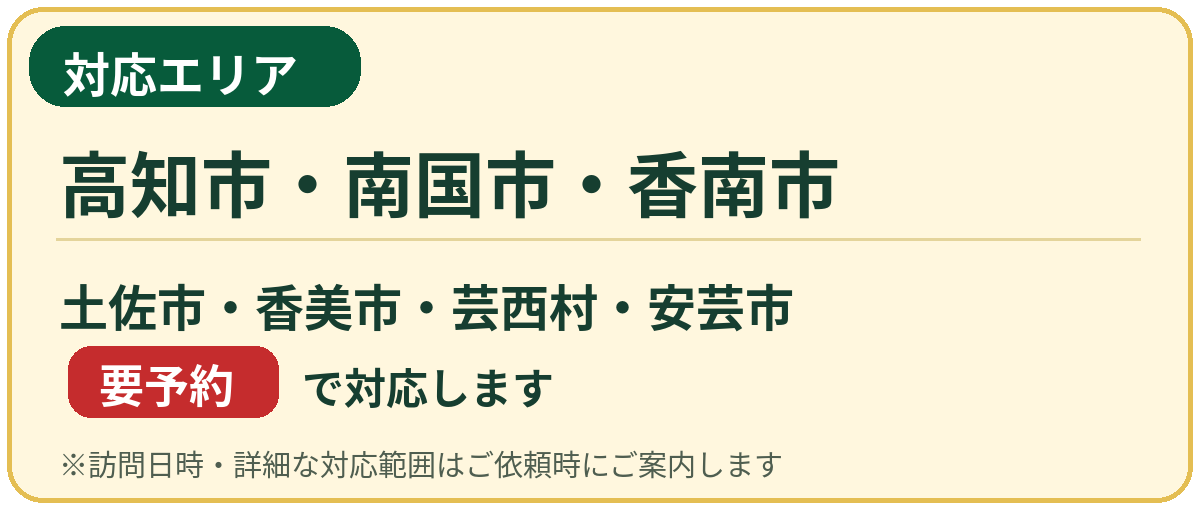
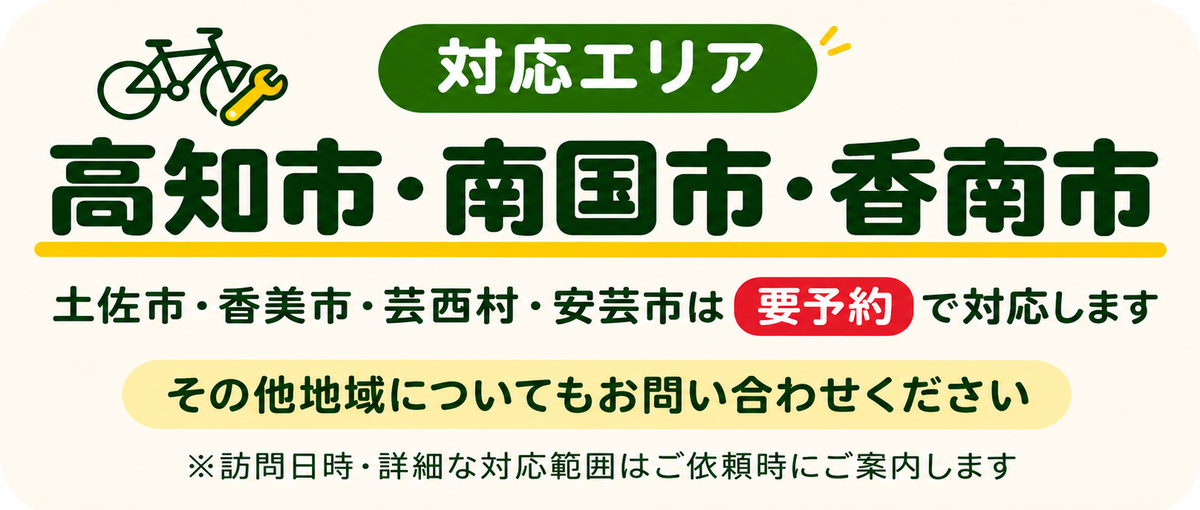
Add files via upload

diff --git a/visit-repair.html b/visit-repair.html
@@ -1061,8 +1061,7 @@ body{background:#fbfaf6}
     <section class="ref-services ref-services-banner" id="ref-services" aria-label="こんな時にご利用ください"><img class="ref-services-banner-img" src="visit-assets/mobile_service_banner_adopted.png" alt="こんな時にご利用ください：パンクしてしまった、ブレーキの効きが悪い、チェーンの調子が悪い、その他修理" width="1267" height="750" loading="lazy" decoding="async"><p class="ref-service-hint">お持ち込みが難しい自転車も、お気軽にご相談ください</p></section>
     <details class="ref-expand"><summary><svg class="" viewBox="0 0 24 24" fill="none" stroke="currentColor" stroke-width="1.9" stroke-linecap="round" stroke-linejoin="round" aria-hidden="true"><path d="m8 4 8 8-8 8"/></svg><span>対応内容・ご利用の流れを見る</span></summary><div class="ref-expand-content"><h3>対応内容</h3><p>パンクや調整など、その場で対応できる修理は現地で作業します。難しい場合は工房に引き取り、修理して後日お届けします。</p><h3>ご利用の流れ</h3><ol><li><span class="ref-step-no">1</span><svg class="" viewBox="0 0 24 24" fill="none" stroke="currentColor" stroke-width="1.9" stroke-linecap="round" stroke-linejoin="round" aria-hidden="true"><path d="M21 16.7v3a2 2 0 0 1-2.2 2 19.6 19.6 0 0 1-8.6-3.1 19.6 19.6 0 0 1-6-6A19.6 19.6 0 0 1 1.1 4a2 2 0 0 1 2-2h3a2 2 0 0 1 2 1.7l.6 2.5a2 2 0 0 1-.5 2.1L7 9.6a15.2 15.2 0 0 0 6.4 6.4l1.3-1.2a2 2 0 0 1 2.1-.5l2.5.6a2 2 0 0 1 1.7 2.2Z"/></svg><div><strong>ご相談・受付</strong><p>受付開始後、症状や訪問場所をお伺いします。</p></div></li><li><span class="ref-step-no">2</span><svg class="" viewBox="0 0 24 24" fill="none" stroke="currentColor" stroke-width="1.9" stroke-linecap="round" stroke-linejoin="round" aria-hidden="true"><rect x="3" y="5" width="18" height="16" rx="2"/><path d="M7 3v4m10-4v4M3 10h18m-14 4h3m4 0h3"/></svg><div><strong>訪問日時の確認</strong><p>日時・場所・作業内容と料金をご案内します。</p></div></li><li><span class="ref-step-no">3</span><svg class="" viewBox="0 0 24 24" fill="none" stroke="currentColor" stroke-width="1.9" stroke-linecap="round" stroke-linejoin="round" aria-hidden="true"><path d="M20.5 7a5.4 5.4 0 0 1-7.1 7.1L6.3 21a2.3 2.3 0 0 1-3.3-3.3l7.1-7.1A5.4 5.4 0 0 1 17 3.5L13 7.5l3.5 3.5Z"/></svg><div><strong>出張修理</strong><p>ご指定の場所へ伺い修理します。必要に応じて引き取りにも対応します。</p></div></li><li><span class="ref-step-no">4</span><svg class="" viewBox="0 0 24 24" fill="none" stroke="currentColor" stroke-width="1.9" stroke-linecap="round" stroke-linejoin="round" aria-hidden="true"><rect x="2" y="5" width="20" height="14" rx="2"/><path d="M2 10h20m-16 5h6"/></svg><div><strong>修理・お支払い</strong><p>状態と作業内容をご確認いただき、お支払いとなります。</p></div></li></ol></div></details>
     <div class="ref-fee-graphic-cards" id="ref-fees" aria-label="対応エリアと出張料金">
-    <img src="visit-assets/mobile_area_card.png" alt="対応エリア：高知市・南国市・香南市。土佐市・香美市・芸西村・安芸市は要予約で対応します。訪問日時や詳細な対応範囲はご依頼時にご案内します。" width="1200" height="510" loading="lazy" decoding="async">
-    <p class="ref-area-extra-note">その他の市町村についても、お気軽にお問い合わせください</p>
+    <img src="visit-assets/mobile_area_card.png" alt="対応エリア：高知市・南国市・香南市。土佐市・香美市・芸西村・安芸市は要予約で対応します。その他地域についてもお問い合わせください。訪問日時・詳細な対応範囲はご依頼時にご案内します。" width="1200" height="510" loading="lazy" decoding="async">
     <img src="visit-assets/mobile_fee_card.png" alt="出張料金：500円から。修理工賃・部品代とは別にかかります。訪問先や作業内容によって料金が異なり、作業前にご案内します。" width="1200" height="510" loading="lazy" decoding="async">
   </div>
     <section class="ref-faq" id="ref-questions"><h2><svg class="" viewBox="0 0 24 24" fill="none" stroke="currentColor" stroke-width="1.9" stroke-linecap="round" stroke-linejoin="round" aria-hidden="true"><circle cx="12" cy="12" r="10"/><path d="M9 9a3 3 0 1 1 4.4 2.7c-1 .6-1.4 1.1-1.4 2.7M12 17.3h.01"/></svg>よくあるご質問</h2><div class="ref-faq-items"><details><summary>どんな修理ができますか？</summary><p>パンク修理・ブレーキ調整・チェーン調整などに対応します。現地での修理が難しい場合は、お預かりして工房で修理します。</p></details><details><summary>事前予約は必要ですか？</summary><p>通常の出張修理は事前にご相談ください。急な故障も可能な範囲で対応します。店舗へのご来店は予約不要です。</p></details><details><summary>出張料金はいくらですか？</summary><p>500円からです。修理工賃・部品代は別途かかり、訪問先や作業内容によって異なります。作業前にご案内します。</p></details></div></section>
